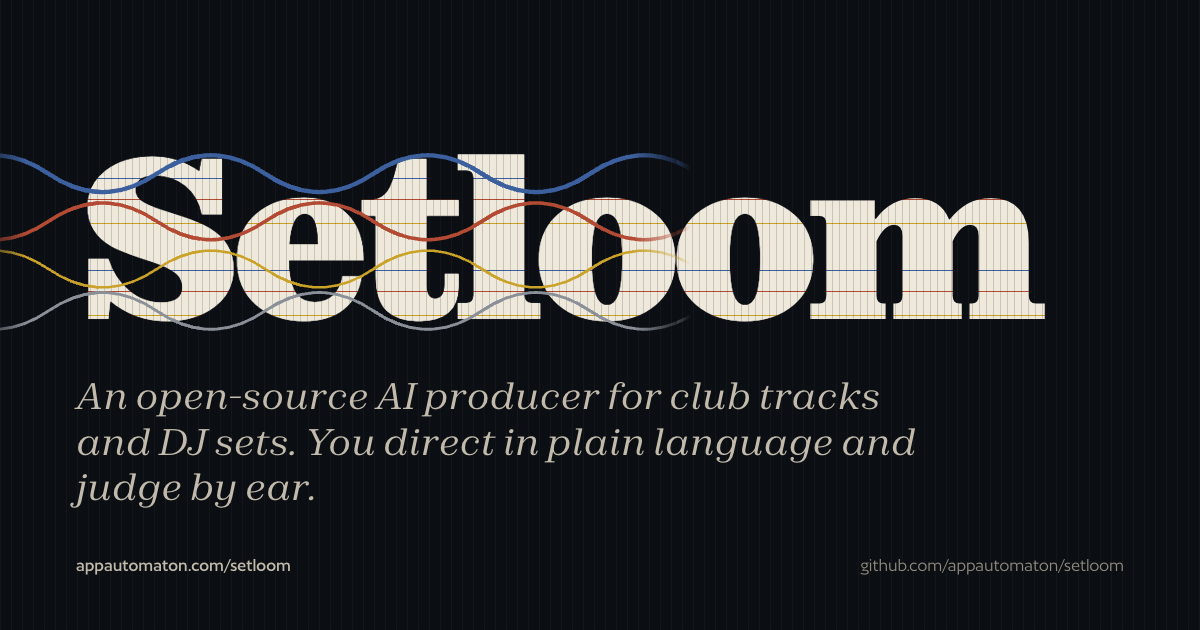
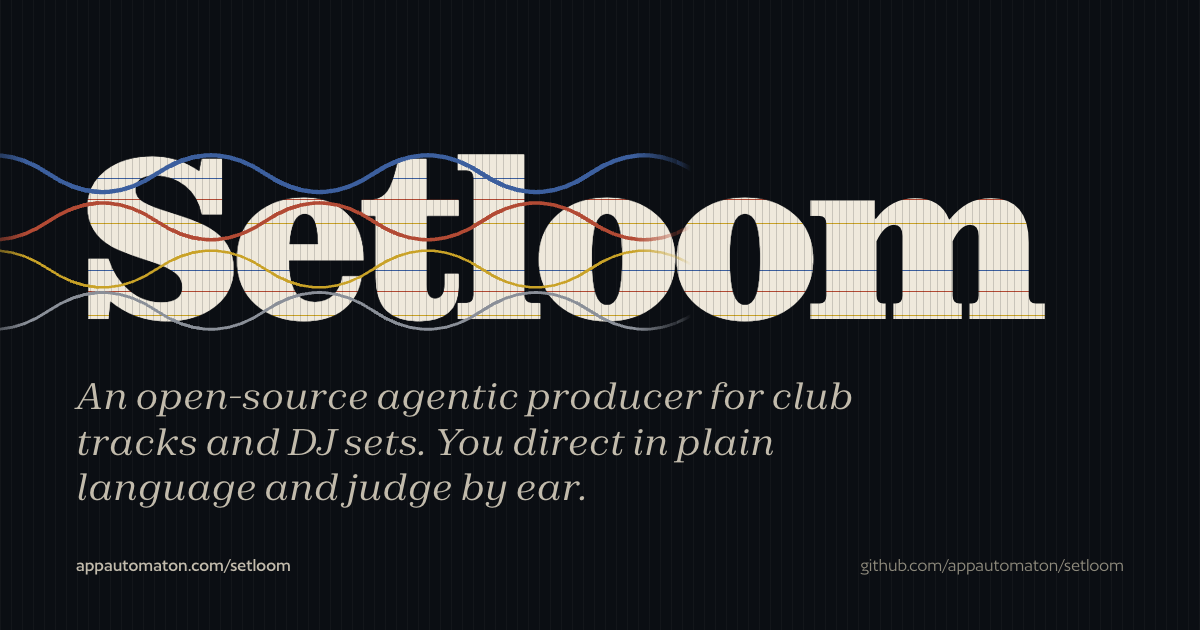
site: adopt agentic wording and open the closing section
The page, the plain-text summary and the social card all described
Setloom as an AI agent. Every occurrence now reads "agentic producer",
and the transcription engine is named for what it is: machine learning.
The title and the description follow, and the keyword list drops the two
entries built on the old term.

The closing section argued that composition is not solved and that
Setloom is honest about where the frontier sits. It read as an apology
written for a marker. It now invites the reader to bring the track they
can already hear, and says what happens when they do. The same wording
was duplicated in the FAQ answer and in llms.txt, so both were rewritten
to match rather than left to contradict the page.

The social card is re-rendered from its source so the picture carries the
new line. One HowTo step named `setloom transcribe` without the
`--group transcription` flag the quick start actually shows; it now
matches. Dates bumped.

Changed region(s): [[0.0617, 0.6032, 0.7708, 0.7238], [0.0617, 0.754, 0.4933, 0.8143]]

diff --git a/site/index.html b/site/index.html
@@ -4,8 +4,8 @@
 <head>
 <meta charset="utf-8">
 <meta name="viewport" content="width=device-width, initial-scale=1">
-<title>Setloom: AI Music Production Agent for Club Tracks and DJ Sets</title>
-<meta name="description" content="Open-source, keyboard-first music production: an AI agent composes, renders, and revises club tracks from your plain-language direction. No DAW required.">
+<title>Setloom: Agentic Music Production for Club Tracks and DJ Sets</title>
+<meta name="description" content="Open-source, keyboard-first music production: an agentic producer composes, renders, and revises club tracks from your plain-language direction. No DAW needed.">
 <link rel="canonical" href="https://appautomaton.com/setloom/">
 <meta name="robots" content="index, follow, max-image-preview:large, max-snippet:-1">
 <meta name="author" content="App Automaton">
@@ -14,7 +14,7 @@
 <meta property="og:type" content="website">
 <meta property="og:site_name" content="Setloom">
 <meta property="og:locale" content="en_US">
-<meta property="og:title" content="Setloom: AI Music Production Agent for Club Tracks and DJ Sets">
+<meta property="og:title" content="Setloom: Agentic Music Production for Club Tracks and DJ Sets">
 <meta property="og:description" content="You direct in plain language and judge by ear. The agent composes, renders, and revises. Open source, keyboard first, no DAW.">
 <meta property="og:url" content="https://appautomaton.com/setloom/">
 <meta property="og:image" content="https://appautomaton.com/setloom/og-card.png">
@@ -23,7 +23,7 @@
 <meta property="og:image:height" content="630">
 <meta property="og:image:alt" content="The Setloom wordmark cut from woven linen, dyed threads passing through it on an indigo ground">
 <meta name="twitter:card" content="summary_large_image">
-<meta name="twitter:title" content="Setloom: AI Music Production Agent for Club Tracks and DJ Sets">
+<meta name="twitter:title" content="Setloom: Agentic Music Production for Club Tracks and DJ Sets">
 <meta name="twitter:description" content="You direct in plain language and judge by ear. The agent composes, renders, and revises. Open source, keyboard first, no DAW.">
 <meta name="twitter:image" content="https://appautomaton.com/setloom/og-card.png">
 <meta name="twitter:image:alt" content="The Setloom wordmark cut from woven linen, dyed threads passing through it on an indigo ground">
@@ -63,8 +63,8 @@
       "@type": "WebPage",
       "@id": "https://appautomaton.com/setloom/#webpage",
       "url": "https://appautomaton.com/setloom/",
-      "name": "Setloom: AI Music Production Agent for Club Tracks and DJ Sets",
-      "description": "Open-source, keyboard-first music production: an AI agent composes, renders, and revises club tracks from your plain-language direction. No DAW required.",
+      "name": "Setloom: Agentic Music Production for Club Tracks and DJ Sets",
+      "description": "Open-source, keyboard-first music production: an agentic producer composes, renders, and revises club tracks from your plain-language direction. No DAW needed.",
       "inLanguage": "en",
       "isPartOf": {
         "@id": "https://appautomaton.com/#website"
@@ -79,7 +79,7 @@
         "@id": "https://appautomaton.com/setloom/#breadcrumb"
       },
       "datePublished": "2026-06-20",
-      "dateModified": "2026-09-10",
+      "dateModified": "2026-09-11",
       "mainEntity": {
         "@id": "https://appautomaton.com/setloom/#project"
       }
@@ -115,13 +115,13 @@
       "@type": "SoftwareSourceCode",
       "@id": "https://appautomaton.com/setloom/#project",
       "name": "Setloom",
-      "description": "An open-source, keyboard-first harness for producing club tracks and DJ sets with an AI agent. The human directs in plain language and judges by ear; the agent composes, renders, inspects, and revises each track's editable source. No DAW or plug-in is operated by the user.",
+      "description": "An open-source, keyboard-first harness for producing club tracks and DJ sets with an agentic producer. The human directs in plain language and judges by ear; the agent composes, renders, inspects, and revises each track's editable source. No DAW or plug-in is operated by the user.",
       "url": "https://appautomaton.com/setloom/",
       "codeRepository": "https://github.com/appautomaton/setloom",
       "programmingLanguage": "Python",
       "runtimePlatform": "Python 3 with uv; MLX transcription on Apple Silicon macOS",
       "license": "https://www.gnu.org/licenses/agpl-3.0.html",
-      "keywords": "AI music production, agentic AI, music production agent, club tracks, DJ sets, melodic techno, MIDI, SuperCollider, audio inspection, Basic Pitch transcription, keyboard-first, open source",
+      "keywords": "agentic music production, agentic music producer, music production agent, machine learning music tools, club tracks, DJ sets, melodic techno, MIDI, SuperCollider, audio inspection, Basic Pitch transcription, keyboard-first, open source",
       "isPartOf": {
         "@id": "https://appautomaton.com/#website"
       },
@@ -134,7 +134,7 @@
       "image": {
         "@id": "https://appautomaton.com/setloom/#primaryimage"
       },
-      "dateModified": "2026-09-10",
+      "dateModified": "2026-09-11",
       "alternateName": [
         "Set Loom",
         "setloom"
@@ -194,7 +194,7 @@
           "@type": "HowToStep",
           "position": 3,
           "name": "Study a reference",
-          "text": "Run uv run setloom transcribe to recover note candidates from reference audio, then uv run setloom anatomize with --layers to read its anatomy.",
+          "text": "Run uv run --group transcription setloom transcribe to recover note candidates from reference audio, then uv run setloom anatomize with --layers to read its anatomy.",
           "url": "https://appautomaton.com/setloom/#start"
         }
       ]
@@ -208,7 +208,7 @@
           "name": "What is Setloom?",
           "acceptedAnswer": {
             "@type": "Answer",
-            "text": "Setloom is an open-source, keyboard-first harness for producing club tracks and DJ sets with an AI agent. You give direction in plain language and judge the result by ear; the agent composes, edits, renders, inspects, and revises each track's editable source. It is made by App Automaton and licensed AGPL-3.0."
+            "text": "Setloom is an open-source, keyboard-first harness for producing club tracks and DJ sets with an agentic producer. You give direction in plain language and judge the result by ear; the agent composes, edits, renders, inspects, and revises each track's editable source. It is made by App Automaton and licensed AGPL-3.0."
           }
         },
         {
@@ -216,7 +216,7 @@
           "name": "Is Setloom a one-click music generator?",
           "acceptedAnswer": {
             "@type": "Answer",
-            "text": "No. Composition is not solved, and Setloom does not pretend otherwise. What works today is a disciplined loop: an agent that turns your listening notes into concrete source changes, renders and inspects reproducibly, and keeps the workspace clean enough that the next pass continues without forensics."
+            "text": "No, and that is the point. You stay inside the loop as the ear: the agent turns your listening notes into concrete source changes, renders them, and inspects the result, so every pass moves toward the track you wanted instead of rolling the dice again. Keep pushing a piece for as long as you have something to say about it."
           }
         },
         {
@@ -240,7 +240,7 @@
           "name": "What does Setloom run on?",
           "acceptedAnswer": {
             "@type": "Answer",
-            "text": "Python 3 through one repo-local uv environment. Audio-to-MIDI transcription uses a native MLX Basic Pitch engine on Apple Silicon Macs; the rest of the toolkit is command-line Python. Model weights, audio, and proprietary samples stay out of Git."
+            "text": "Python 3 through one repo-local uv environment. Audio-to-MIDI transcription uses a native MLX Basic Pitch machine-learning engine on Apple Silicon Macs; the rest of the toolkit is command-line Python. Model weights, audio, and proprietary samples stay out of Git."
           }
         },
         {
@@ -294,7 +294,7 @@
             <path class="w3" pathLength="1" d="M-40 200 C 80 150, 200 250, 320 200 S 530 150, 650 200 S 900 250, 1040 200"/>
             <path class="w4" pathLength="1" d="M-40 258 C 140 220, 260 296, 390 258 S 630 220, 770 258 S 950 296, 1040 258"/>
           </svg></span>
-          <span class="h1-line">An open-source AI producer for club tracks and DJ sets. You direct in plain language and judge by ear. The agent composes, renders, and revises.</span>
+          <span class="h1-line">An open-source agentic producer for club tracks and DJ sets. You direct in plain language and judge by ear. The agent composes, renders, and revises.</span>
         </h1>
         <p class="hero-actions">
           <a class="button button-solid" href="#start">Start with the repository</a>
@@ -385,7 +385,7 @@
         <div><dt><code>assemble.py</code></dt><dd>Each track's editable code assembles the music. Every render is reproducible from source.</dd></div>
         <div><dt><code>setloom play</code></dt><dd>Audition a render the way you prefer. Nothing autoplays without your say.</dd></div>
         <div><dt><code>setloom inspect</code></dt><dd>Waveform, spectrum, spectrogram, stereo field, and A/B comparisons from the command line.</dd></div>
-        <div><dt><code>setloom transcribe</code></dt><dd>Recover note candidates from reference audio with a native MLX Basic Pitch engine on Apple Silicon.</dd></div>
+        <div><dt><code>setloom transcribe</code></dt><dd>Recover note candidates from reference audio with a native MLX Basic Pitch machine-learning engine on Apple Silicon.</dd></div>
         <div><dt><code>setloom anatomize</code></dt><dd>Dissect a reference by layers to study how it is put together.</dd></div>
         <div><dt><code>setloom.midi</code>, <code>setloom.audio</code>, <code>setloom.conductor</code></dt><dd>MIDI, DSP hygiene, and music-theory primitives that each track's code builds on.</dd></div>
         <div><dt>SuperCollider, Logic Pro, Ableton Live</dt><dd>Local production surfaces the agent can drive when a track calls for them, with editable source and recorded settings.</dd></div>
@@ -423,8 +423,8 @@
 
   <section class="sheet today" id="today" aria-labelledby="today-title">
     <div class="shell">
-      <h2 id="today-title">Not a one-click generator. Composition is not solved.</h2>
-      <p class="premise-body">What works today is the loop: an agent that turns feedback into concrete source changes quickly, researches when it helps, renders and inspects reproducibly, and keeps the workspace clean enough that the next pass continues without forensics. The leverage is disciplined iteration, not automation that replaces judgment. Setloom is honest about where that frontier sits.</p>
+      <h2 id="today-title">Bring the track you can already hear.</h2>
+      <p class="premise-body">Say it in one sentence and the loom starts running: the agent writes the source, renders it, listens back, and hands you an audition before the idea has cooled. Tell it what is wrong and it goes again. Every pass leaves editable source behind, so nothing is locked and nothing has to be rebuilt from memory. How far a track travels is set by what you dare to ask for next.</p>
       <p class="hero-actions"><a class="button button-solid" href="https://github.com/appautomaton/setloom">Open the repository</a></p>
     </div>
   </section>
@@ -435,11 +435,11 @@
       <dl class="faq">
         <div>
           <dt>What is Setloom?</dt>
-          <dd>Setloom is an open-source, keyboard-first harness for producing club tracks and DJ sets with an AI agent. You give direction in plain language and judge the result by ear; the agent composes, edits, renders, inspects, and revises each track's editable source. It is made by App Automaton and licensed AGPL-3.0.</dd>
+          <dd>Setloom is an open-source, keyboard-first harness for producing club tracks and DJ sets with an agentic producer. You give direction in plain language and judge the result by ear; the agent composes, edits, renders, inspects, and revises each track's editable source. It is made by App Automaton and licensed AGPL-3.0.</dd>
         </div>
         <div>
           <dt>Is Setloom a one-click music generator?</dt>
-          <dd>No. Composition is not solved, and Setloom does not pretend otherwise. What works today is a disciplined loop: an agent that turns your listening notes into concrete source changes, renders and inspects reproducibly, and keeps the workspace clean enough that the next pass continues without forensics.</dd>
+          <dd>No, and that is the point. You stay inside the loop as the ear: the agent turns your listening notes into concrete source changes, renders them, and inspects the result, so every pass moves toward the track you wanted instead of rolling the dice again. Keep pushing a piece for as long as you have something to say about it.</dd>
         </div>
         <div>
           <dt>Do I need a DAW, Ableton Live, or Logic Pro?</dt>
@@ -451,7 +451,7 @@
         </div>
         <div>
           <dt>What does Setloom run on?</dt>
-          <dd>Python 3 through one repo-local uv environment. Audio-to-MIDI transcription uses a native MLX Basic Pitch engine on Apple Silicon Macs; the rest of the toolkit is command-line Python. Model weights, audio, and proprietary samples stay out of Git.</dd>
+          <dd>Python 3 through one repo-local uv environment. Audio-to-MIDI transcription uses a native MLX Basic Pitch machine-learning engine on Apple Silicon Macs; the rest of the toolkit is command-line Python. Model weights, audio, and proprietary samples stay out of Git.</dd>
         </div>
         <div>
           <dt>Who owns the music Setloom produces?</dt>

diff --git a/site/og-card.html b/site/og-card.html
@@ -64,7 +64,7 @@
     <path stroke="#c9a227" stroke-width="3.5" d="M-40 198 c 50 -34 100 -34 150 0 c 50 34 100 34 150 0 c 50 -34 100 -34 150 0 c 50 34 100 34 150 0 c 50 -34 100 -34 150 0 c 50 34 100 34 150 0 c 50 -34 100 -34 150 0 c 50 34 100 34 150 0"/>
     <path stroke="#8a8f98" stroke-width="4" d="M-40 256 c 50 34 100 34 150 0 c 50 -34 100 -34 150 0 c 50 34 100 34 150 0 c 50 -34 100 -34 150 0 c 50 34 100 34 150 0 c 50 -34 100 -34 150 0 c 50 34 100 34 150 0 c 50 -34 100 -34 150 0"/>
   </svg></span>
-  <p class="line">An open-source AI producer for club tracks and DJ sets. You direct in plain language and judge by ear.</p>
+  <p class="line">An open-source agentic producer for club tracks and DJ sets. You direct in plain language and judge by ear.</p>
   <div class="foot"><span><b>appautomaton.com/setloom</b></span><span>github.com/appautomaton/setloom</span></div>
 </div>
 </body>
